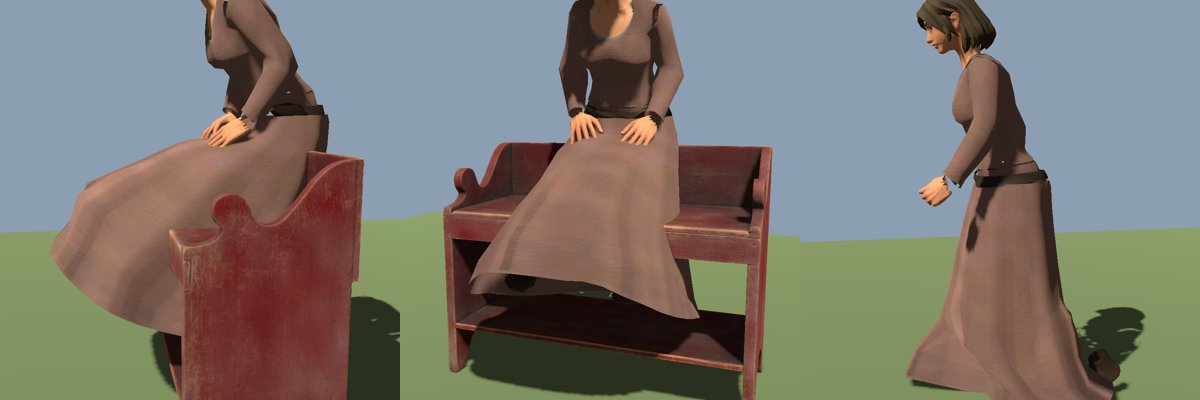
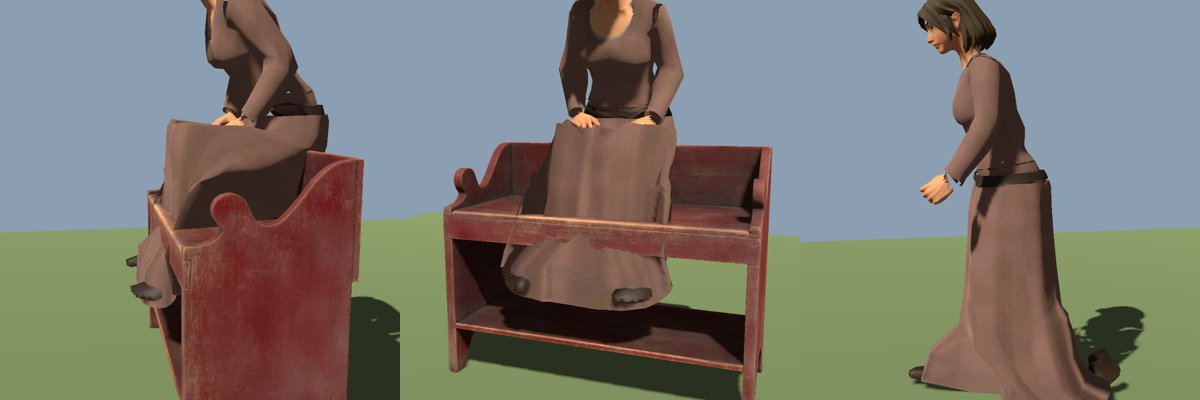
Sukne podle rešerše (CRYENGINE PRow projekce na kapsle nohou): kosti retezu miri na drahu po povrchu stehna a holene, prolnuti podle ohnuti stehen - vsede latka na stehnech a od kolen podel holeni, chuze beze zmeny
Claude-Session: https://claude.ai/code/session_01WeT6YyZ78tWTNnktyKgoyQ

diff --git a/docs/rozpracovane/sukne_sed_reserse.md b/docs/rozpracovane/sukne_sed_reserse.md
@@ -1,0 +1,78 @@
+# Rešerše: dlouhá sukně při sezení a chůzi (12. 11. 2026)
+
+Cíl: přední část sukně při sedu leží na stehnech a od kolen padá podél holení, místo „zvonu/ubrusu“.
+Hledáno: dokumentace CRYENGINE, Warhorse (GDC), KawaiiPhysics (UE), Godot, fóra riggerů (Polycount, DAZ, 80.lv).
+
+## 1. CRYENGINE / KCD
+
+- **PRow = „pendula row“**: řada kyvadel se stejnými parametry; kloub musí mít jméno s tagem a čítači `skirt_x00_y01`
+  (x = pozice po obvodu, y = řada shora). Osa X rodiče musí mířit na potomka. Pro sukni zaškrtnout **Cycle** (poslední
+  kyvadlo v řadě spojené s prvním). Vodorovné vazby: **Stretch** (0,2 = ±20 % vzdálenosti z výchozí pózy),
+  **Relaxation Loops** doporučeno 2–4. Svisle se sukně nenatahuje (délka = vzdálenost kloubů).
+  [CRYENGINE – Attachment System Tutorial, „Simulating a Grid of Linked Joints“](https://www.cryengine.com/docs/static/engines/cryengine-5/categories/23756816/pages/29450433)
+- Parametry řady: Simulation FPS (doporučeno 30–60), Mass, Gravity 9,81, Damping, **Joint Spring 0–999** (tah k
+  **Spring Target** – ose vůči kloubu), **Cone Angle** výchozí 45° (0–179), Rod Length, Max Velocity (proti
+  „výbuchu“ při teleportu/náhlé změně pózy). Tamtéž.
+- **Kolize**: „růžové“ proxy = *lozenge* na kloubech těla (4 čísla → koule, kapsle, krabice…), „modré“ = kapsle/koule
+  na kloubech sukně; růžové vždy odtlačí modré. **Projection Type**: shortvec translation, shortarc rotation,
+  directed rotation (jen jedním směrem – podle roviny závěsu), translational projection. Rotace funguje **jen když
+  čep kapsle leží mimo lozenge**, jinak hlášení „Capsule … starts inside of proxy“ a kolize se nevyřeší. Tamtéž.
+- Číselný trik pro řetězy: kapsle o ~25 % delší než kost (překryv s potomkem) a **poloměr potomka o ~2 mm menší**,
+  aby čep potomka byl po odsunutí rodiče také venku. Tamtéž.
+- Pořadí: nejprve projekce z lozenge, pak ořez do kužele – **kužel má poslední slovo**; malý kužel může kapsli
+  zamknout ve stehně. Tamtéž.
+- Příklad kyvadla u nohy: kužel → kliping; *half-cone* plochou stranou k tělu → bez klipingu; nejlépe **kapsle na
+  stehně** + kužel. Tamtéž (Pendulum_Simulation_01–04.cdf).
+- CRYENGINE sám radí: sukně často **stačí skinovat**, simulovat jen konce (PRow / kyvadlo na kloubu).
+  [CRYENGINE – VCloth 2.0](https://www.cryengine.com/docs/static/engines/cryengine-5/categories/23756816/pages/29799532)
+- Kosti sukně se přidávají jako rozšíření kostry; stačí jeden společný kloub (obvykle pánev).
+  [Attachment System Tutorial](https://www.cryengine.com/docs/static/engines/cryengine-5/categories/23756816/pages/29450433)
+- Warhorse: GDC Europe 2015 „Adaptive Clothing System in KCD“ (Tomáš Barák) – procedurální přizpůsobení **vrstev**
+  oblečení, aby se nepřekrývaly; o sezení nic. [GDC Vault](https://gdcvault.com/play/1022822/Adaptive-Clothing-System-in-Kingdom)
+- **NEOVĚŘENO**: jména kostí sukní v KCD1/2, počet řad, zda KCD používá PRow, a zda sedící ženy mají speciální
+  animace kostí sukně. Wiki/Nexus/fórum nic nedaly; zdroj by byl rozbalení `.chr/.cdf` z PAK nebo KCD2 Modding Tools
+  (CryEngine Sandbox). [Nexus – KCD2 modding](https://www.nexusmods.com/kingdomcomedeliverance2/articles/79),
+  [fórum KCD – CDF lze otevřít v Notepadu](https://forum.kingdomcomerpg.com/t/what-we-know-about-modding-so-far/38589?page=3)
+
+## 2. Běžné postupy v oboru
+
+- **Kapsle na stehně + kapsle koleno–lýtko** na každé noze, poloměr kolizí sukně se ke spodnímu lemu zmenšuje
+  (křivka poloměru 1,0 v pase → 0,5 u lemu; tuhost 1,0 → 0,3). Hodnoty: Damping 0,2–0,3, Stiffness 0,1–0,2,
+  Limit Angle 45–90°, vazby mezi sousedními řetězy (BoneConstraint). **Sync Bone**: kosti sukně posouvá kost stehna
+  (sukně se zvedá s nohou při chůzi). [KawaiiPhysics – Tutorial Skirt](https://github.com/pafuhana1213/KawaiiPhysics/wiki/Tutorial-Skirt-en)
+- Kolize kapslemi na nohou sukni nezakryjí vždy – zvětšení horní části kapsle udělá „schod“.
+  [DAZ fórum](https://www.daz3d.com/forums/discussion/comment/7745636)
+- UE AnimDynamics: jen rovinné a kulové limity (rovina drží kosti mimo tělo/zem); fyzikální kapsle postavy na něj
+  nepůsobí. [Epic – AnimDynamics](https://dev.epicgames.com/documentation/en-us/unreal-engine/animation-blueprint-animdynamics-in-unreal-engine)
+- **Póza řízená nohou (RBF)**: předpózované tvary sukně spouštěné polohou nohy, bez fyziky a kolizí.
+  [80.lv – skirt rig v Maye](https://80.lv/articles/tech-artist-unveils-a-touhou-inspired-3d-skirt-rig-made-in-maya)
+- **Morf/korektiva pro sed**: nasimulovat sukni v sedu a uložit jako morph target.
+  [Renderosity](https://api.renderosity.com/forums/threads/2776142/print)
+- Kopírovat kosti nohou do sukně = roztržení středu; doporučují hybrid (noha + vlastní kosti sukně, ručně
+  animované v sedu). Hybrid fungoval na židli, ne při sezení na zemi.
+  [DAZ](https://forum.daz3d.com/forums/discussion/comment/7083696/), [Polycount](https://polycount.com/discussion/comment/1021590),
+  [Polycount](https://polycount.com/discussion/comment/1018663)
+- Aim constraint kosti sukně na cíl + „falešná kolize“ bodovou vazbou ke kolenu a uzlem úhlu mezi.
+  [blenderartists](https://blenderartists.org/t/skirt-rigging-problem/670900) (NEOVĚŘENO v detailu – jen úryvek z vyhledávání)
+- Godot má vestavěný **SpringBoneSimulator3D** s kolizemi `SpringBoneCollisionCapsule3D` (výchozí radius 0,1,
+  výška ≥ 2× poloměr, volba *inside*); poloměr po kloubech, stiffness/drag/gravity (gravity = rychlost, ne zrychlení).
+  [Godot 4.4 – Capsule](https://docs.godotengine.org/en/4.4/classes/class_springbonecollisioncapsule3d.html),
+  [SpringBoneSimulator3D](https://docs.godotengine.org/en/stable/classes/class_springbonesimulator3d.html)
+
+## 3. Recept pro nás (návrh, NEOVĚŘENO měřením)
+
+Odvozeno z výše uvedeného (CRY kapsle+kužel, Kawaii Sync Bone, hybrid z Polycountu); ne převzato hotové.
+
+1. **Proxy těla** (z dat, ne čísla v kódu): kapsle stehno `thigh→calf` poloměr r_s, kapsle holeň `calf→foot` r_h
+   (změřit z modelu postavy; zdroje čísla pro člověka nedávají – **NEOVĚŘENO**).
+2. **Horní kost řetězu (přední/boční)**: cíl = bod na povrchu stehna: `K = koleno + n·(r_s + tl)` kde n je
+   normála od osy stehna směrem k poloze řetězu po obvodu (přední řetěz → „nahoru“ od stehna v sedu). Kost
+   natočit *aim* z kořene na K (ne zlomkem rotace stehna). Přední středové řetězy: K = průměr obou kolen (přemostí mezeru).
+3. **Střední + dolní kost**: kloub na kolenní hraně; aim od K k `kotník + n·(r_h + tl)` průmětem do svislice, tj.
+   lem padá podél holeně / ke zemi, ne vodorovně.
+4. **Ořezy**: (a) projekce jako v CRY – pokud kloub sukně leží uvnitř kapsle nohy, posunout na povrch
+   (shortvec); (b) výška lemu ≤ výška kolene – jinak otočit kost dolů; (c) zadní řetězy: kužel/half-cone, ať
+   nejdou do sedáku (sedák + židle jako rovina).
+5. **Chůze**: stejný výpočet, jen se váhou přechodu (blend aim ↔ výchozí póza podle úhlu stehna), volitelně
+   lehká pružina (SpringBoneSimulator3D s kapslemi) jen na dolní kosti.
+6. Ověření: snímek sedu z boku + test, že všechny klouby sukně jsou ≥ r mimo kapsle nohou.
